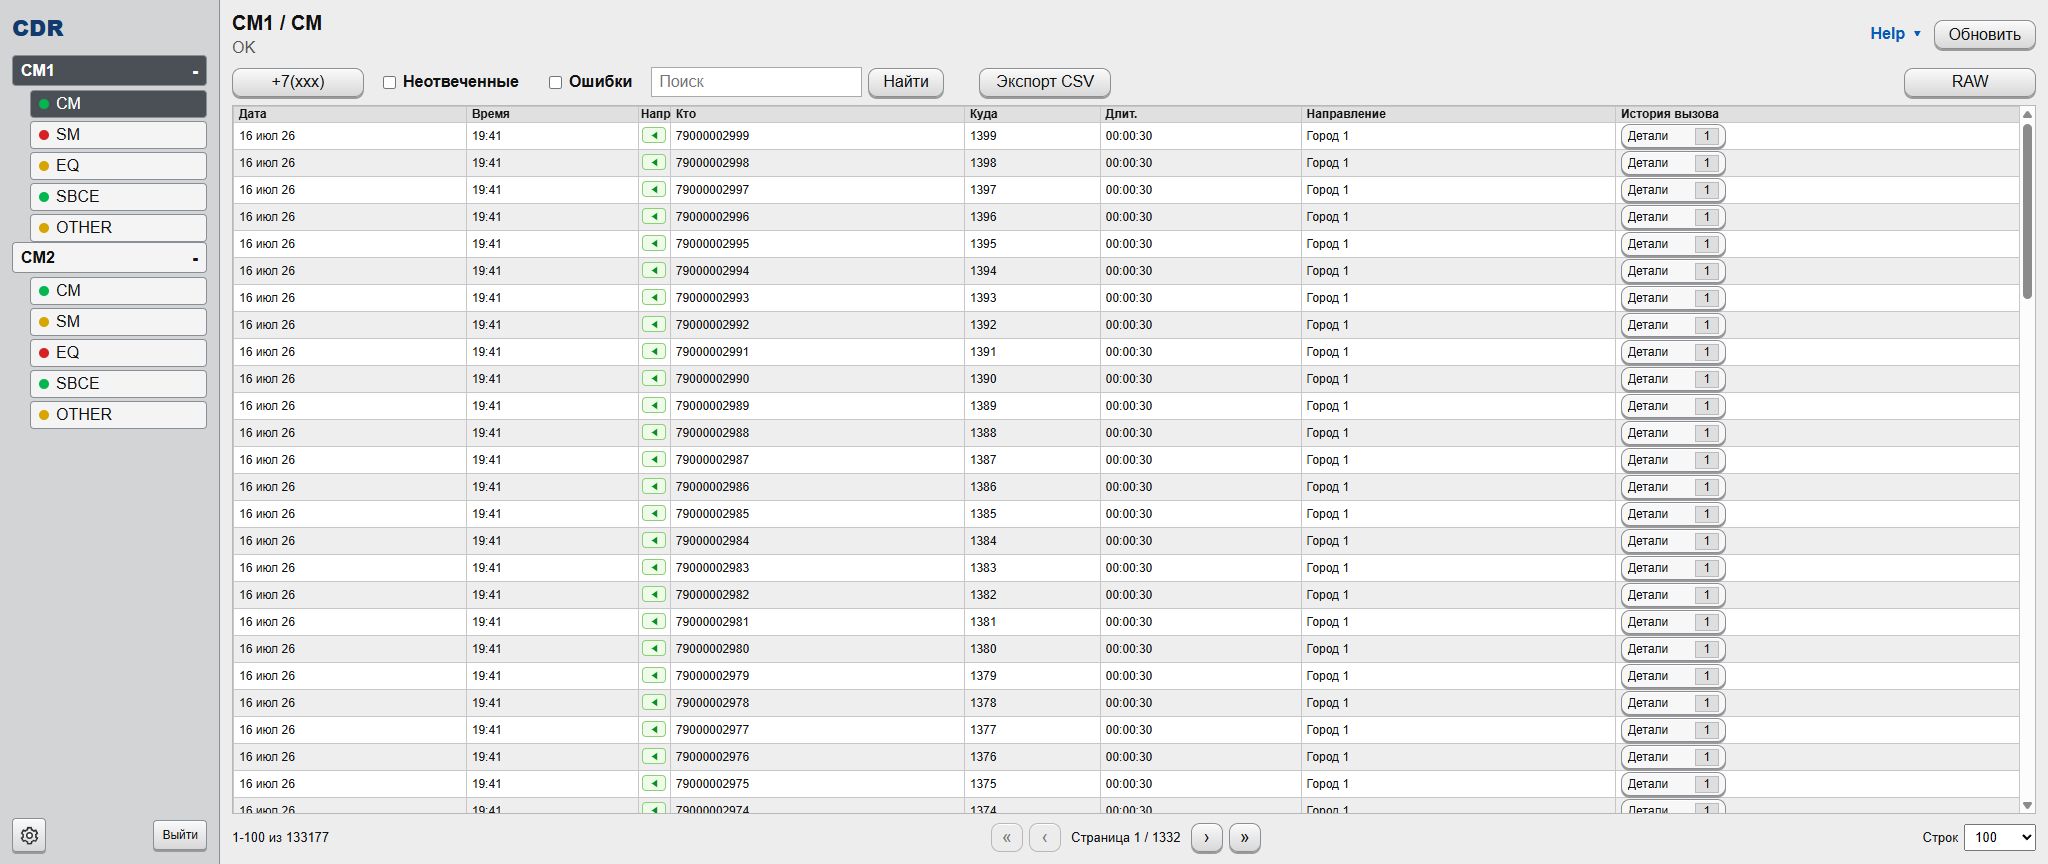
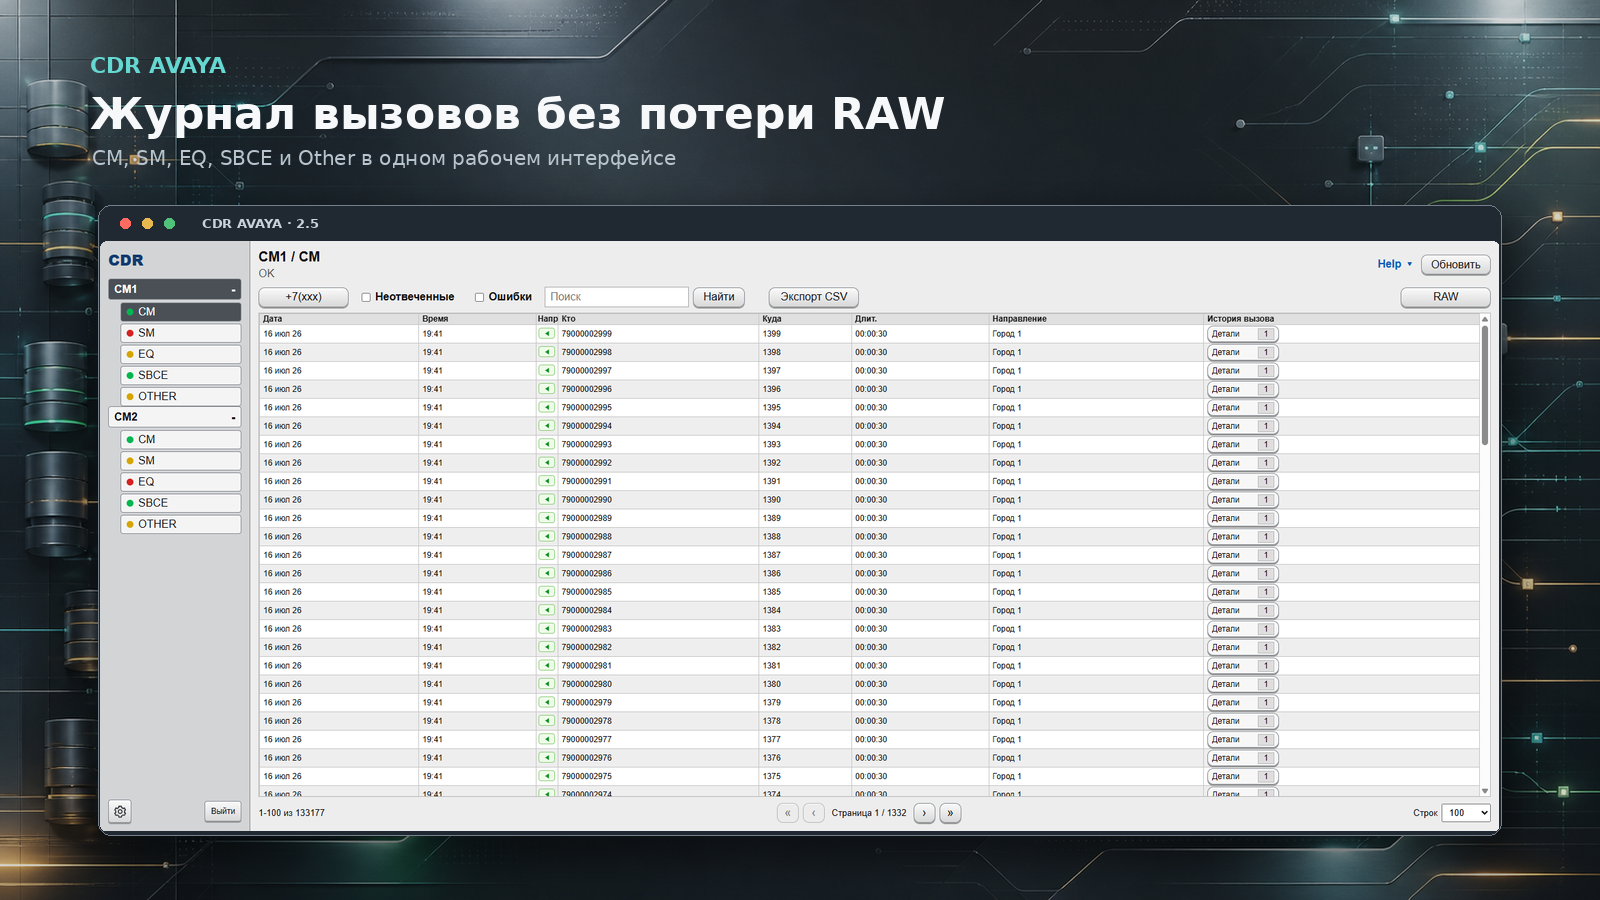
Add polished CDR product screenshots

diff --git a/README.md b/README.md
@@ -25,6 +25,16 @@ Web-система для приёма, обработки, хранения и 
 - авторизация и разграничение доступа к ACD;
 - offline-установка и версионные обновления через UI.
 
+## Интерфейс
+
+### Маршрут вызова
+
+![CDR AVAYA — связанные записи и маршрут вызова](images/cdr-avaya-details.png)
+
+### Системная диагностика
+
+![CDR AVAYA — диагностика служб и источников](images/cdr-avaya-diagnostics.png)
+
 ## Установка
 
 На Linux-компьютере с доступом в интернет выполните:
